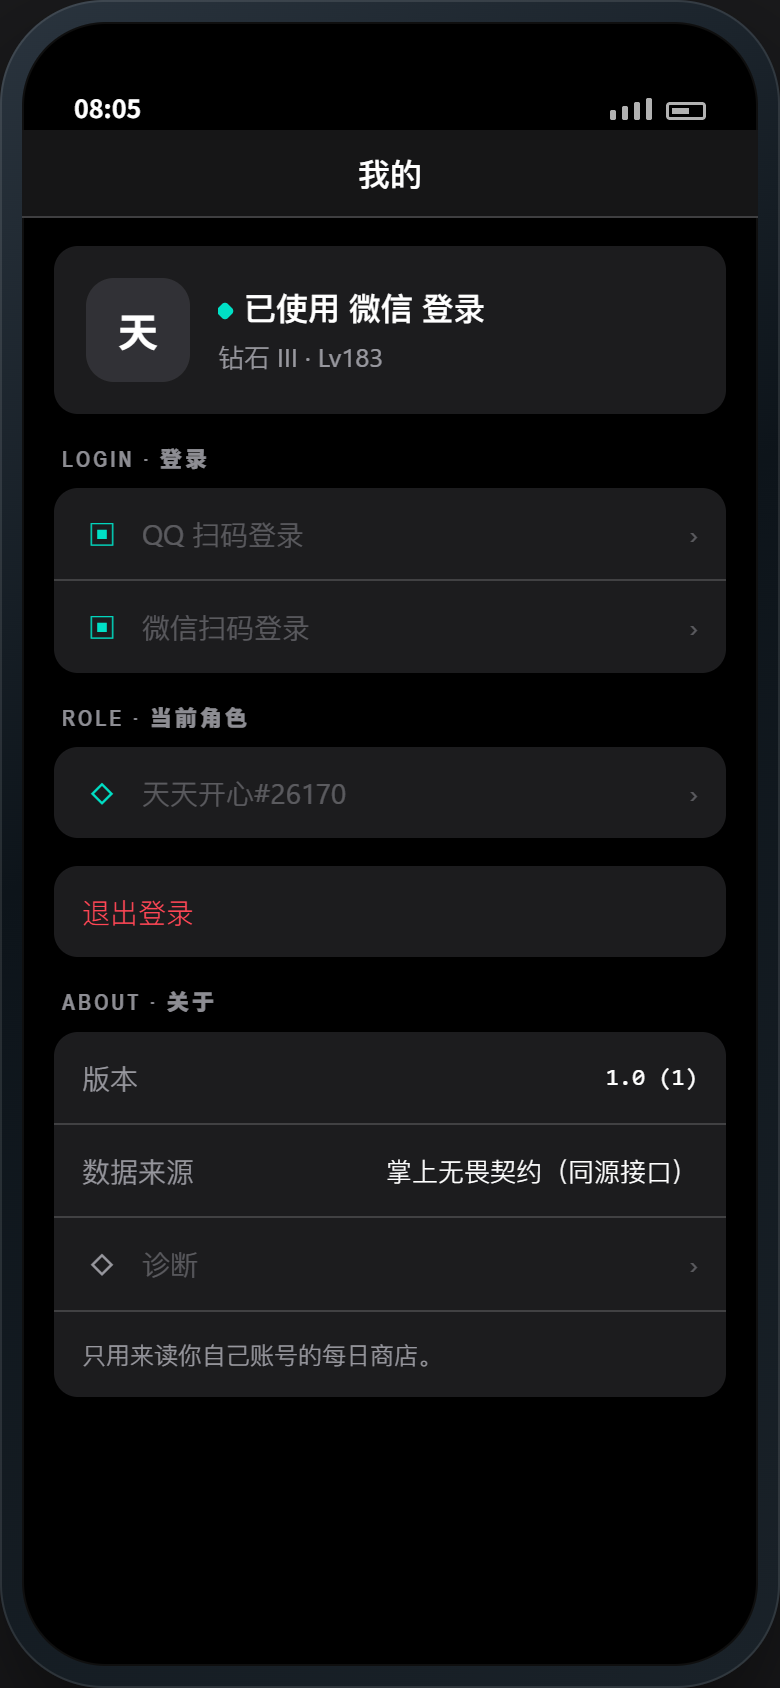
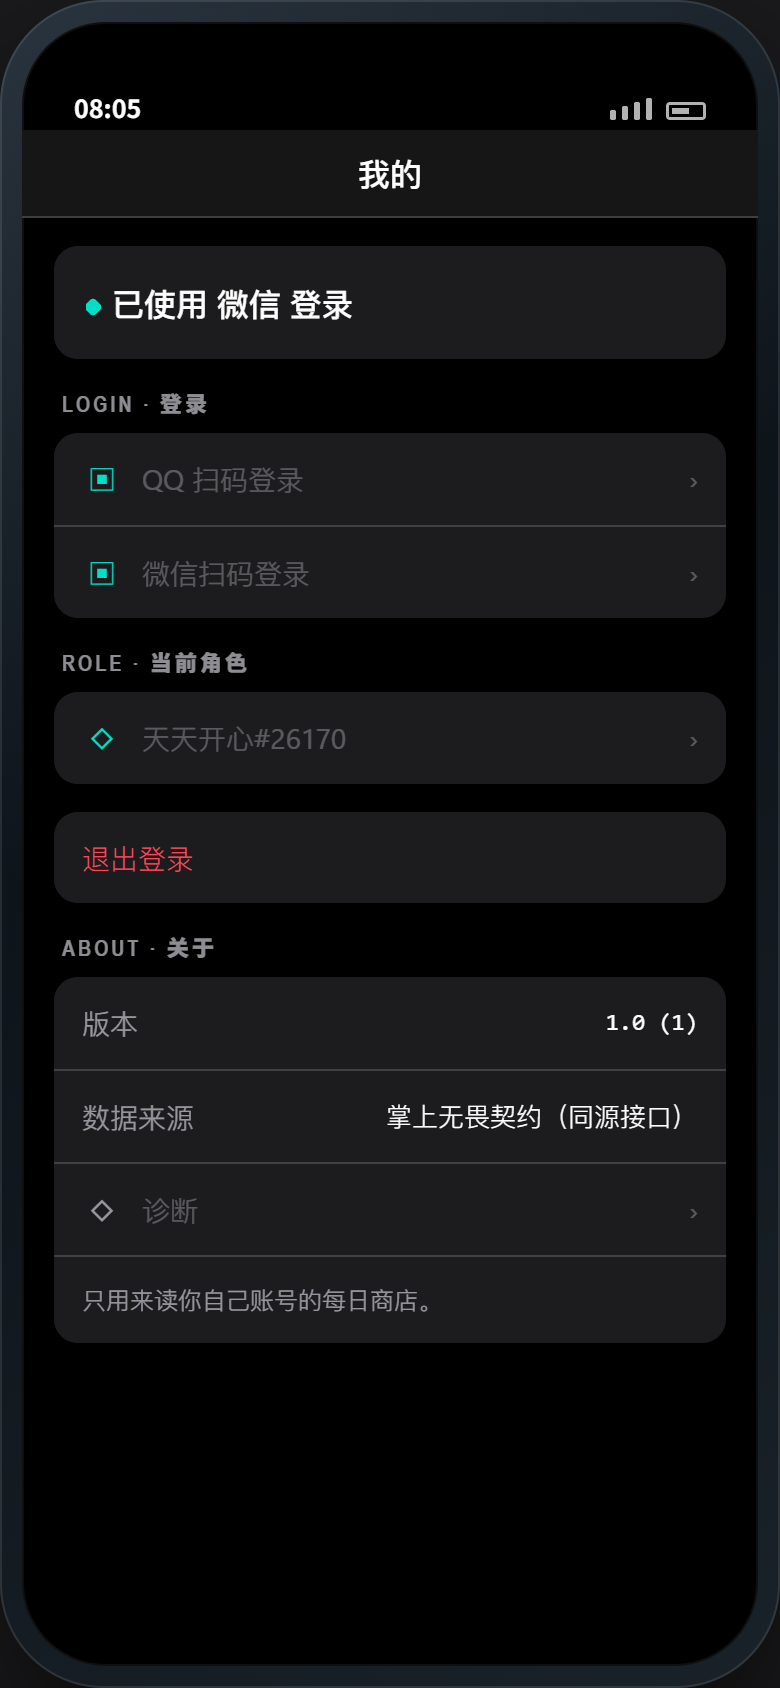
我的页账号栏只留一句「已使用 XX 登录」
- 去掉头像和段位副标题，整条只剩：◆ 已使用 QQ/微信 登录。
  头像和段位商店页的账号条上已经有了，这里不重复。
- ProfileView 里随之删掉 avatar / initial 两个辅助视图（已经没有引用）。
- 预览台同步（账号卡只剩一行）。

Changed region(s): [[0.0615, 0.154, 0.9538, 0.8318]]

diff --git a/val-shop-ios/App/ProfileView.swift b/val-shop-ios/App/ProfileView.swift
@@ -94,53 +94,23 @@ struct ProfileView: View {
 
     // MARK: - 账号
 
+    /// 只留一句话：这次是怎么登进来的。头像、段位都不放 ——
+    /// 商店页的账号条上已经有了，这里不重复。
     private var accountSection: some View {
         Section {
-            HStack(spacing: 14) {
-                avatar
-
-                VStack(alignment: .leading, spacing: 3) {
-                    // 这里不再重复游戏 ID（商店页已经有了），改成说"怎么登进来的"。
-                    // 原来「已登录」前面那个菱形挪到这句前面。
-                    HStack(spacing: 6) {
-                        ZWDiamond()
-                            .fill(model.sessionHealth.tint)
-                            .frame(width: 8, height: 8)
-                        Text(model.loginMethodLabel)
-                            .font(.headline)
-                            .lineLimit(1)
-                            .minimumScaleFactor(0.8)
-                    }
-                    Text(model.displaySubtitle)
-                        .font(.subheadline)
-                        .foregroundStyle(.secondary)
-                        .lineLimit(1)
-                }
-
+            HStack(spacing: 8) {
+                ZWDiamond()
+                    .fill(model.sessionHealth.tint)
+                    .frame(width: 8, height: 8)
+                Text(model.loginMethodLabel)
+                    .font(.headline)
+                    .lineLimit(1)
+                    .minimumScaleFactor(0.8)
                 Spacer(minLength: 0)
             }
-            .padding(.vertical, 6)
+            .padding(.vertical, 2)
             .accessibilityElement(children: .combine)
         }
-    }
-
-    private var avatar: some View {
-        ZStack {
-            Color(.tertiarySystemFill)
-            if let icon = model.userRole?.icon, !icon.isEmpty, let url = URL(string: icon) {
-                CachedImage(url: url, contentMode: .fill) { initial }
-            } else {
-                initial
-            }
-        }
-        .frame(width: 52, height: 52)
-        .clipShape(RoundedRectangle(cornerRadius: 14, style: .continuous))
-    }
-
-    private var initial: some View {
-        Text(String(model.displayName.prefix(1)))
-            .font(.title3.weight(.bold))
-            .foregroundStyle(model.hasSession ? Color.primary : Color.secondary)
     }
 }
 

diff --git a/val-shop-ios/design/preview.html b/val-shop-ios/design/preview.html
@@ -814,12 +814,10 @@ footer.pagefoot{margin-top:56px;color:var(--label-3);font-size:11.5px;border-top
           <div class="navbar"><div class="ntitle">我的</div></div>
           <div class="scroll" style="padding-top:14px">
 
+            <!-- 只有一句话：怎么登进来的。头像、段位都去掉了（商店页的账号条上已有） -->
             <div class="account g-lg g-fill">
-              <div class="acct-av">天</div>
               <div class="acct-who">
-                <!-- 不再重复游戏 ID：改成说明"怎么登进来的"，菱形挪到这句前面 -->
                 <div class="gid"><span class="dm"></span>已使用 微信 登录</div>
-                <div class="sub">钻石 III · Lv183</div>
               </div>
             </div>
 
